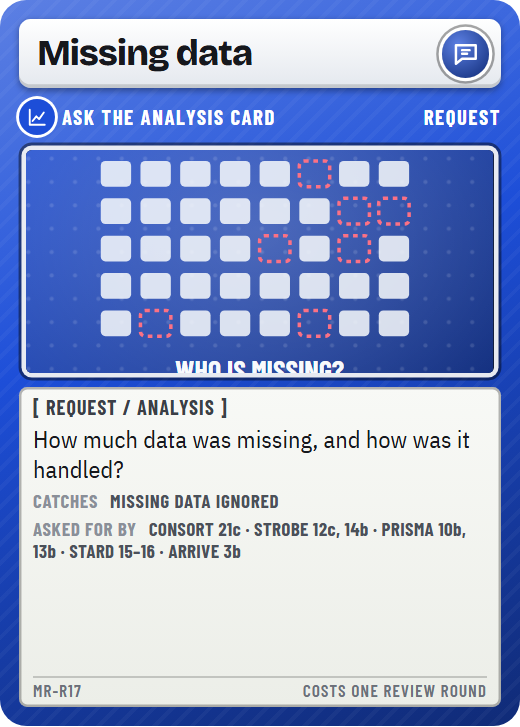
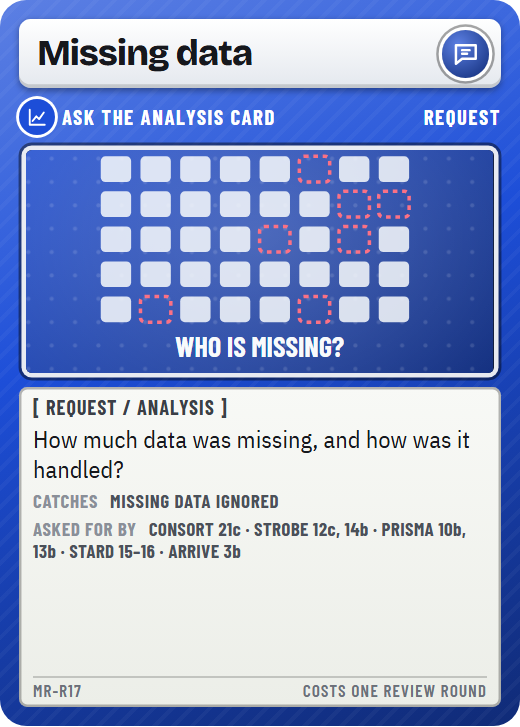
Major Revisions now plays in five languages; its R17 card picture re-rendered

Changed region(s): [[0.1846, 0.2118, 0.8, 0.5144]]

diff --git a/index.html b/index.html
@@ -144,7 +144,7 @@ footer a { color: var(--ink); }
       <h2>Major Revisions</h2>
       <p>A manuscript arrives with a flaw planted in it. Send the right reviewer requests, find the flaw before your rounds run out, and give the editor's verdict.</p>
       <p class="practise">You practise: reporting guidelines (CONSORT, STROBE, PRISMA, STARD, COREQ, ARRIVE) and the flaws they catch.</p>
-      <ul class="meta"><li>133 cards</li><li>Solo in the app, or 3–6 at the table</li><li>English</li></ul>
+      <ul class="meta"><li>133 cards</li><li>Solo in the app, or 3–6 at the table</li><li>English, Français, Nederlands, Deutsch, العربية</li></ul>
       <div class="actions">
         <a class="play" href="https://ua-smartlab.github.io/major-revisions-card-game/app/">Play Major Revisions <svg viewBox="0 0 16 16" aria-hidden="true"><path d="M5 3l6 5-6 5" fill="none" stroke="currentColor" stroke-width="2.2" stroke-linecap="round" stroke-linejoin="round"/></svg></a>
         <span class="more">
